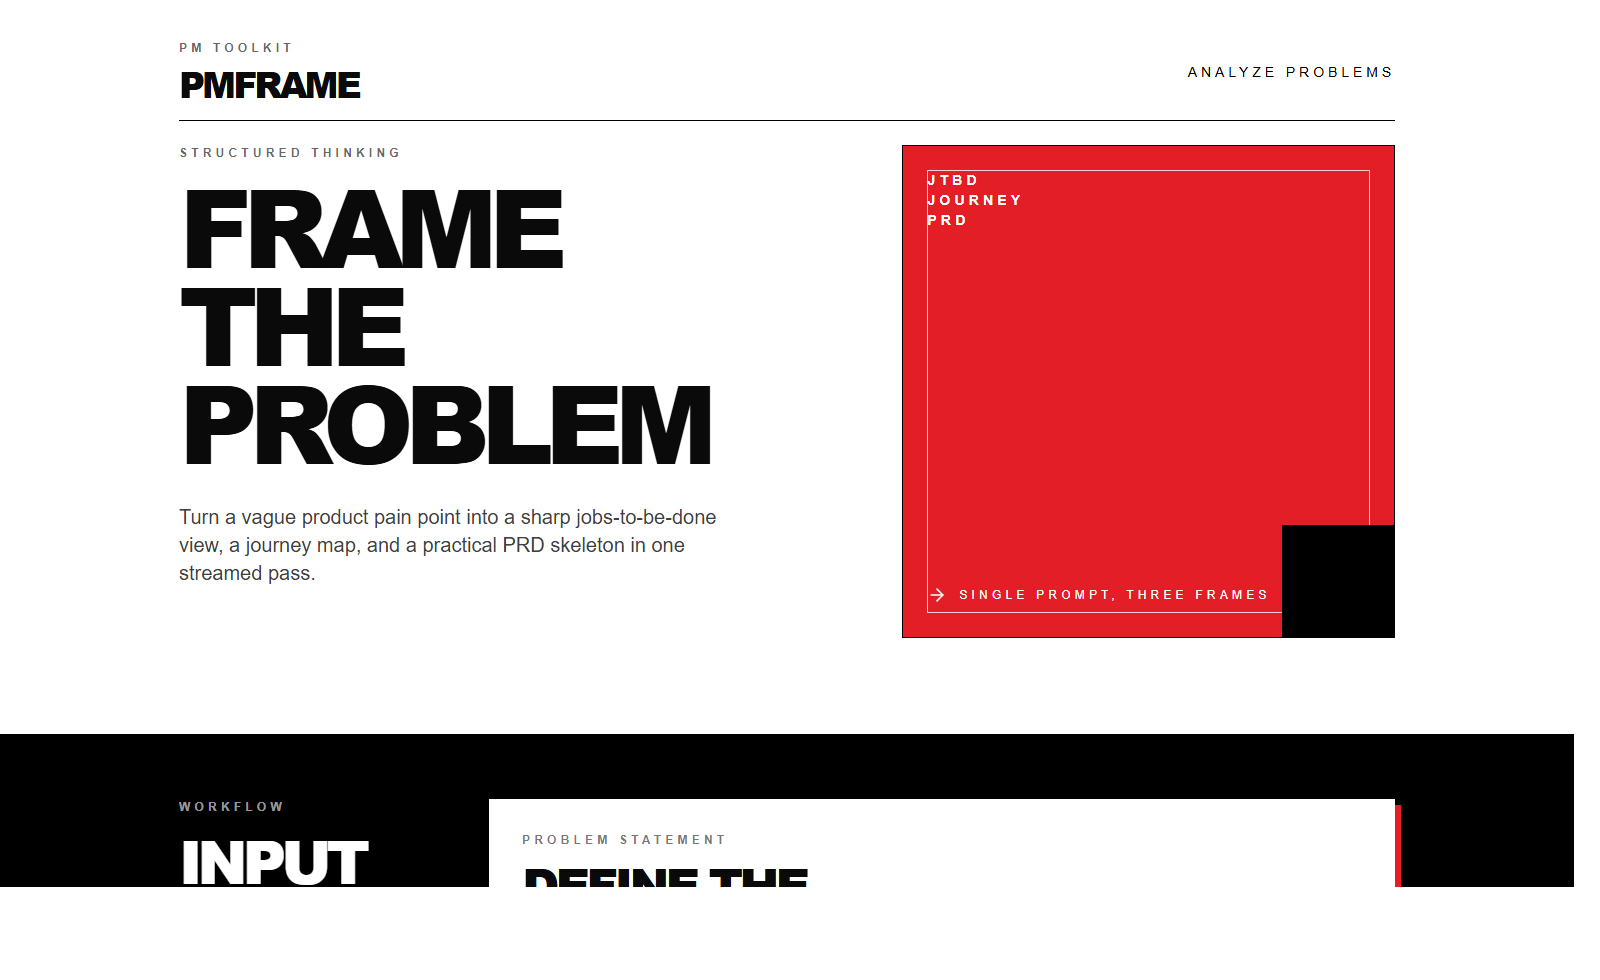
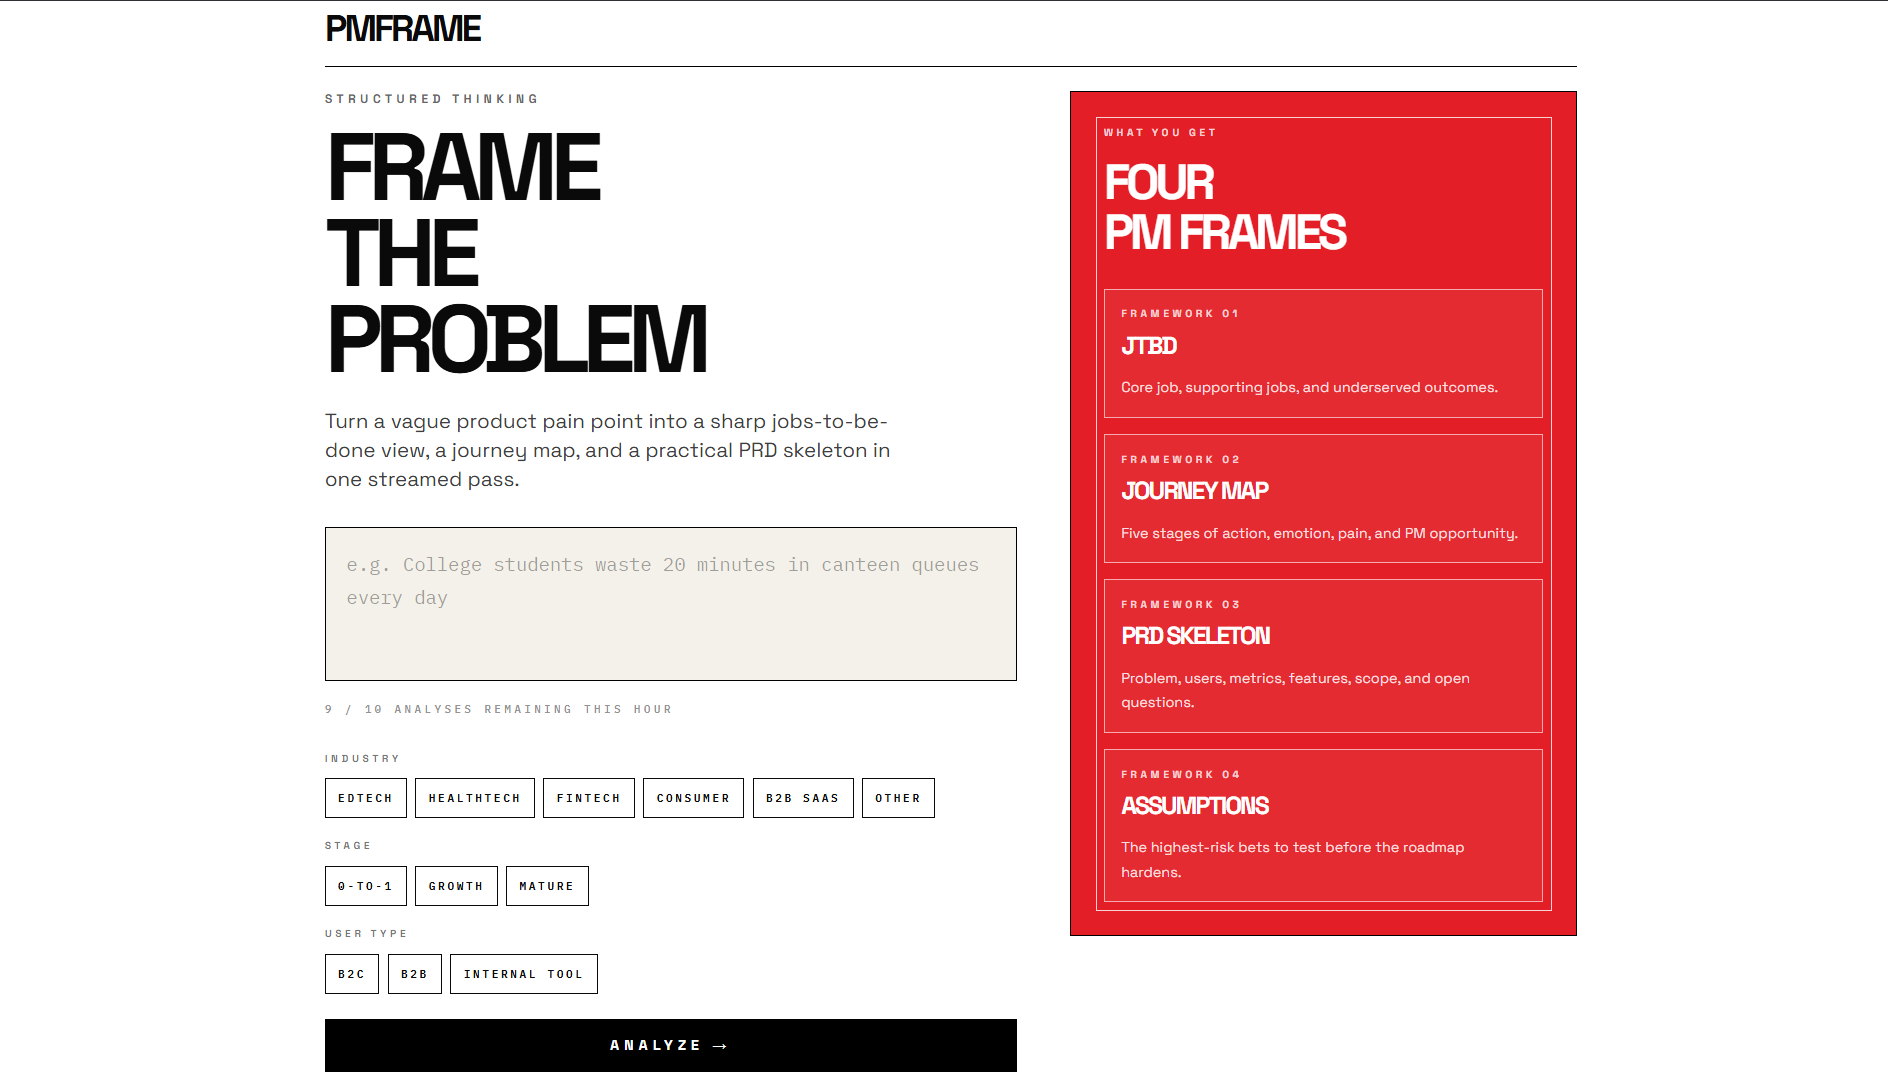
Refresh README screenshots

diff --git a/README.md b/README.md
@@ -1,12 +1,13 @@
 # PM Frame
 
-PM Frame is a frontend-first product thinking tool that turns one raw problem statement into three practical outputs in a single run:
+PM Frame is a frontend-first product thinking tool that turns one raw problem statement into four practical outputs in a single run:
 
 - `JTBD` to clarify the core user job
 - `Journey Map` to break down behavior, pain, and opportunity across stages
 - `PRD Skeleton` to turn strategy into an execution-ready outline
+- `Assumptions To Test` to surface the riskiest bets before execution
 
-It is designed for fast problem framing. You paste a messy product problem, and the app streams structured PM artifacts back into the UI instead of making you wait for one giant response.
+It is designed for fast problem framing. You paste a messy product problem, add optional context tags, and the app streams structured PM artifacts back into the UI instead of making you wait for one giant response.
 
 ## Screenshots
 
@@ -16,7 +17,7 @@ It is designed for fast problem framing. You paste a messy product problem, and 
 
 ### Generated Output
 
-![PM Frame generated JTBD, Journey Map, and PRD output](docs/images/pm-frame-output.png)
+![PM Frame generated JTBD, Journey Map, PRD, and assumptions output](docs/images/pm-frame-output.png)
 
 ## Why It Exists
 
@@ -67,6 +68,14 @@ Builds a lightweight product requirements draft with:
 - out-of-scope boundaries
 - open questions
 
+### 4. Assumptions To Test
+
+Adds a final validation lens with:
+
+- explicit product or user assumptions
+- risk levels (`HIGH`, `MEDIUM`, `LOW`)
+- concrete validation methods for each assumption
+
 ## Product Experience
 
 PM Frame is intentionally opinionated:
@@ -74,6 +83,9 @@ PM Frame is intentionally opinionated:
 - bold editorial UI rather than default dashboard styling
 - streamed responses so the interface updates progressively
 - strict structured output parsing to keep the response usable
+- statement scoring before generation to catch vague prompts
+- optional context tags to calibrate the analysis
+- client-side rate limiting to keep the browser session bounded
 - frontend-only architecture with no custom backend
 
 ## Tech Stack
@@ -89,9 +101,10 @@ PM Frame is intentionally opinionated:
 
 1. The user enters a product problem statement.
 2. The app sends that prompt directly to Groq from the frontend.
-3. The model returns structured JSON for `jtbd`, `journeyMap`, and `prd`.
-4. The UI streams partial output and normalizes it as data arrives.
-5. Cards render only when the content is meaningfully usable.
+3. A fast scorer checks statement quality before the full analysis runs.
+4. The model returns structured JSON for `jtbd`, `journeyMap`, `prd`, and `assumptions`.
+5. The UI streams partial output and normalizes it as data arrives.
+6. Cards render only when the content is meaningfully usable.
 
 There is no backend in this project. The API key is read from a Vite environment variable.
 
@@ -148,6 +161,7 @@ npm run build
 ```text
 src/
   components/
+    AssumptionsCard.jsx
     InputPanel.jsx
     JTBDCard.jsx
     JourneyMapCard.jsx
@@ -164,7 +178,10 @@ src/
 ## Notes
 
 - The app currently uses `llama-3.3-70b-versatile` only.
-- Streaming is supported, with a non-stream repair pass if the initial structured response is incomplete.
+- Streaming is supported, with a repair pass if the initial structured response is incomplete.
+- Statement scoring runs before the main analysis call.
+- Context tags can tailor output language, metrics, and feature framing.
+- Browser sessions are rate-limited to `10` successful analyses per hour via `localStorage`.
 - If Groq returns a `503`, that is typically an upstream availability issue rather than a frontend build issue.
 
 ## Future Improvements
